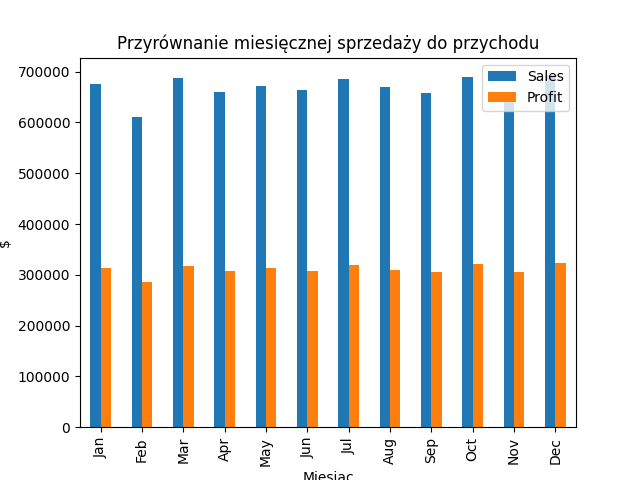
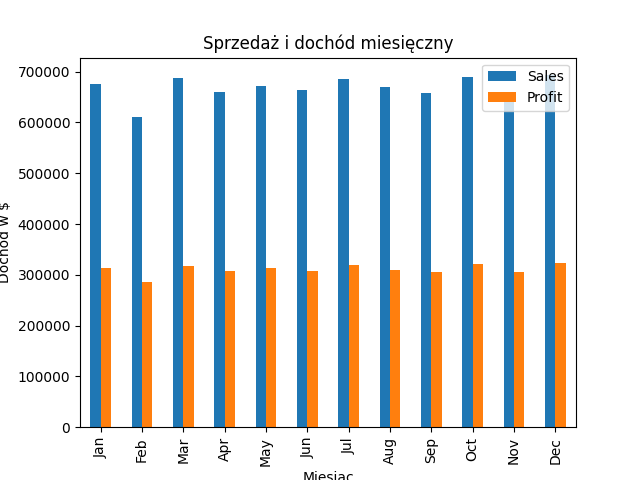
update

Changed region(s): [[0.1875, 0.0625, 0.8438, 0.125], [0.0, 0.4062, 0.0312, 0.5938]]

diff --git a/src/allegro_data_analysis/csv_file_data_analysis.py b/src/allegro_data_analysis/csv_file_data_analysis.py
@@ -3,6 +3,8 @@ import matplotlib.pyplot as plt
 import seaborn as sns
 import numpy as np
 
+MONTH_DICT = {'Jan': 1, 'Feb': 2, 'Mar': 3, 'Apr': 4, 'May': 5, 'Jun': 6, 'Jul': 7, 'Aug': 8, 'Sep': 9, 'Oct': 10, 'Nov': 11, 'Dec': 12}
+
 
 def prepare_df():
     df = pd.read_csv('resources/ecommerce_data.csv')
@@ -50,7 +52,7 @@ def create_plot(title: str, xlabel: str, ylabel: str, plot_file_name: str):
     plt.clf()
 
 
-def create_plot_by_order_id(data_frame, group_by, plot_title, xlabel, ylabel, plot_file_name):
+def create_plot_by_order_id(data_frame: pd.DataFrame, group_by, plot_title: str, xlabel: str, ylabel: str, plot_file_name: str):
     """
     Create a bar plot of count of order IDs grouped by a given column.
 
@@ -67,7 +69,7 @@ def create_plot_by_order_id(data_frame, group_by, plot_title, xlabel, ylabel, pl
     create_plot(plot_title, xlabel, ylabel, plot_file_name)
 
 
-def create_plot_of_country_profits(data_frame, top_or_bottom_countries, plot_title, plot_file_name):
+def create_plot_of_country_profits(data_frame: pd.DataFrame, top_or_bottom_countries: str, plot_title: str, plot_file_name: str):
     """
     Create a bar plot of the total profits of top or bottom 10 countries.
     Parameters:
@@ -95,7 +97,7 @@ def create_plot_of_country_profits(data_frame, top_or_bottom_countries, plot_tit
     plt.clf()
 
 
-def create_plot_by_category(data_frame, category, plot_file_name):
+def create_plot_by_category(data_frame: pd.DataFrame, category: str, plot_file_name: str):
     """
     Create plot of profit for a given product category.
 
@@ -104,9 +106,8 @@ def create_plot_by_category(data_frame, category, plot_file_name):
     category (str): The category of the product to plot.
     plot_file_name (str): The name of the file to save the plot to.
     """
-    month_dict = {'Jan': 1, 'Feb': 2, 'Mar': 3, 'Apr': 4, 'May': 5, 'Jun': 6, 'Jul': 7, 'Aug': 8, 'Sep': 9, 'Oct': 10, 'Nov': 11, 'Dec': 12}
     df_cat = data_frame.loc[data_frame['Product Category'] == category]
-    df_cat_grouped = df_cat[['Months', 'Profit']].groupby('Months').sum().sort_values('Months', key=lambda x: x.apply(lambda x: month_dict[x]))
+    df_cat_grouped = df_cat[['Months', 'Profit']].groupby('Months').sum().sort_values('Months', key=lambda x: x.apply(lambda x: MONTH_DICT[x]))
     df_cat_grouped.reset_index(inplace=True)
 
     title = f"Dochód z sprzedaży produktów z kategorii '{category}'"
@@ -115,13 +116,42 @@ def create_plot_by_category(data_frame, category, plot_file_name):
     plt.clf()
 
 
-def create_correlation_plot(data_frame, plot_title, plot_file_name):
+def create_correlation_plot(data_frame: pd.DataFrame, plot_title: str, plot_file_name: str):
     corr = data_frame.corr()
     mask = np.triu(np.ones_like(corr, dtype=bool))
-    f, ax = plt.subplots(figsize=(11, 9))
-    cmap = sns.diverging_palette(230, 20, as_cmap=True)
     sns.heatmap(data_frame.corr(), mask=mask, annot=True, center=0, linewidths=.5, square=True, vmin=-0.15, vmax=0.3, fmt='0.1f').set(title=plot_title)
     plt.savefig(f"resources/plots/{plot_file_name}")
+    plt.clf()
+
+
+def create_linear_regression_plot(data_frame: pd.DataFrame, plot_title: str, plot_file_name: str):
+    sns.regplot(x='Shipping Cost', y='Profit', data=data_frame).set(title=plot_title)
+    plt.savefig(f"resources/plots/{plot_file_name}")
+    plt.clf()
+
+
+def create_sales_and_monthly_income_plot(data_frame: pd.DataFrame, plot_title: str, plot_file_name: str):
+    df_sales_profit = data_frame[['Months', 'Sales', 'Profit']]
+    df_sales_profit.groupby('Months').sum().sort_values('Months', key=lambda x: x.apply(lambda x: MONTH_DICT[x])).plot.bar()
+    create_plot(plot_title, "Miesiąc", "Dochód w $", plot_file_name)
+
+
+def create_revenue_customer_segment_plot(data_frame: pd.DataFrame, plot_title: str, plot_file_name: str):
+    df_segment = data_frame[['Segment', 'Profit']]
+    df_segment.groupby(['Segment'])['Profit'].count().plot(kind="bar", title=plot_title)
+    plt.xticks(horizontalalignment="center")
+    create_plot(plot_title, "Segment", "Dochód w $", plot_file_name)
+
+
+def create_average_waiting_time_in_month_plot(data_frame: pd.DataFrame, plot_title: str, plot_file_name: str):
+    sns.boxplot(x="Months", y="Aging", data=data_frame)
+    create_plot(plot_title, "Miesiąc", "Ilość dni", plot_file_name)
+
+
+def create_income_generated_by_segments_plot(data_frame: pd.DataFrame, plot_title: str, plot_file_name: str):
+    df_segment = data_frame.sort_values('Months', key=lambda x: x.apply(lambda x: MONTH_DICT[x]))[['Months', 'Segment', 'Profit']]
+    sns.histplot(data=df_segment, x="Months", hue="Segment", multiple="stack").set(title=plot_title, xlabel='Miesiąc', ylabel='Dochód')
+    plt.savefig(f'resources/plots/{plot_file_name}')
     plt.clf()
 
 
@@ -134,20 +164,11 @@ def generate_plots():
     The plots are saved in various image files using the savefig method.
     """
 
-    month_dict = {'Jan': 1, 'Feb': 2, 'Mar': 3, 'Apr': 4, 'May': 5, 'Jun': 6, 'Jul': 7, 'Aug': 8, 'Sep': 9, 'Oct': 10, 'Nov': 11, 'Dec': 12}
-
     df = prepare_df()
-    create_plot_by_order_id(
-        data_frame=df, group_by='Quarter', plot_title="Ilość zamówień w danym kwartale",
-        xlabel="Kwartał", ylabel="Zamówienia", plot_file_name='ZamowieniaKwartal.png')
 
-    create_plot_by_order_id(
-        data_frame=df, group_by='Months', plot_title="Ilość zamówień w danym miesiącu na skale globaln",
-        xlabel="Miesiąc", ylabel="Zamówienia", plot_file_name='zamowieniaMiesiac.png')
-
-    create_plot_by_order_id(
-        data_frame=df, group_by='Product Category', plot_title="Ilość produktów z poszczególnej kategorii",
-        xlabel="Kategoria produktu", ylabel="Ilość zamówień", plot_file_name='zamowieniaKategorie.png')
+    create_plot_by_order_id(df, 'Quarter', "Ilość zamówień w danym kwartale", "Kwartał", "Zamówienia", 'ZamowieniaKwartal.png')
+    create_plot_by_order_id(df, 'Months', "Ilość zamówień w danym miesiącu na skale globaln", "Miesiąc", "Zamówienia", 'zamowieniaMiesiac.png')
+    create_plot_by_order_id(df, 'Product Category', "Ilość produktów z poszczególnej kategorii", "Kategoria produktu", "Ilość zamówień", 'zamowieniaKategorie.png')
 
     create_plot_of_country_profits(df, "top", "Miesięczny dochów w 2015 w 10 krajach o największym dochodzie", 'najwiekszyDochod.png')
     create_plot_of_country_profits(df, "bottom", "Miesięczny dochów w 2015 w 10 krajach o najmniejszym dochodzie", 'najmniejszyDochod.png')
@@ -158,23 +179,8 @@ def generate_plots():
     create_plot_by_category(df, "Electronic", 'dochodelektornika.png')
 
     create_correlation_plot(df, "Korelacja pomiędzy zmiennymi ilościowymi", "korelacja.png")
-
-    df_sales_profit = df[['Months', 'Sales', 'Profit']]
-    df_sales_profit.groupby('Months').sum().sort_values('Months', key=lambda x: x.apply(lambda x: month_dict[x])).plot.bar()
-    create_plot("Sprzedaż i dochód miesięczny", "Miesiąc", "Dochód w $", "sprzedazDochod.png")
-
-    df_segment = df[['Segment', 'Profit']]
-    df_segment.groupby(['Segment'])['Profit'].count().plot(kind="bar", title="Przychod dla danego semgmentu klientów")
-    plt.xticks(horizontalalignment="center")
-    create_plot("Przychod dla danego semgmentu klientów", "Segment", "Dochód w $", "dochodSegment.png")
-
-    df = df.sort_values('Months', key=lambda x: x.apply(lambda x: month_dict[x]))
-
-    df_segment = df[['Months', 'Segment', 'Profit']]
-    sns.histplot(data=df_segment, x="Months", hue="Segment", multiple="stack").set(title="Dochód generowany przez poszczególne segmnety", xlabel='Miesiąc',
-                                                                                   ylabel='Dochód')
-    plt.savefig('resources/plots/segmentyHistohram.png')
-    plt.clf()
-
-    sns.boxplot(x="Months", y="Aging", data=df)
-    create_plot("Średni czas oczekiwania zamówienia na wysyłkę w danym miesiącu", "Miesiąc", "Ilość dni", "sredniaAgign.png")
+    create_linear_regression_plot(df, "Dopasowanie 'Profit' i 'Shipping Cost' do modelu regresji liniowej", "proftCostReg.png")
+    create_sales_and_monthly_income_plot(df, "Sprzedaż i dochód miesięczny", "sprzedazDochod.png")
+    create_revenue_customer_segment_plot(df, "Przychod dla danego semgmentu klientów", "dochodSegment.png")
+    create_average_waiting_time_in_month_plot(df, "Średni czas oczekiwania zamówienia na wysyłkę w danym miesiącu", "sredniaAgign.png")
+    create_income_generated_by_segments_plot(df, "Dochód generowany przez poszczególne segmnety", "segmentyHistohram.png")
